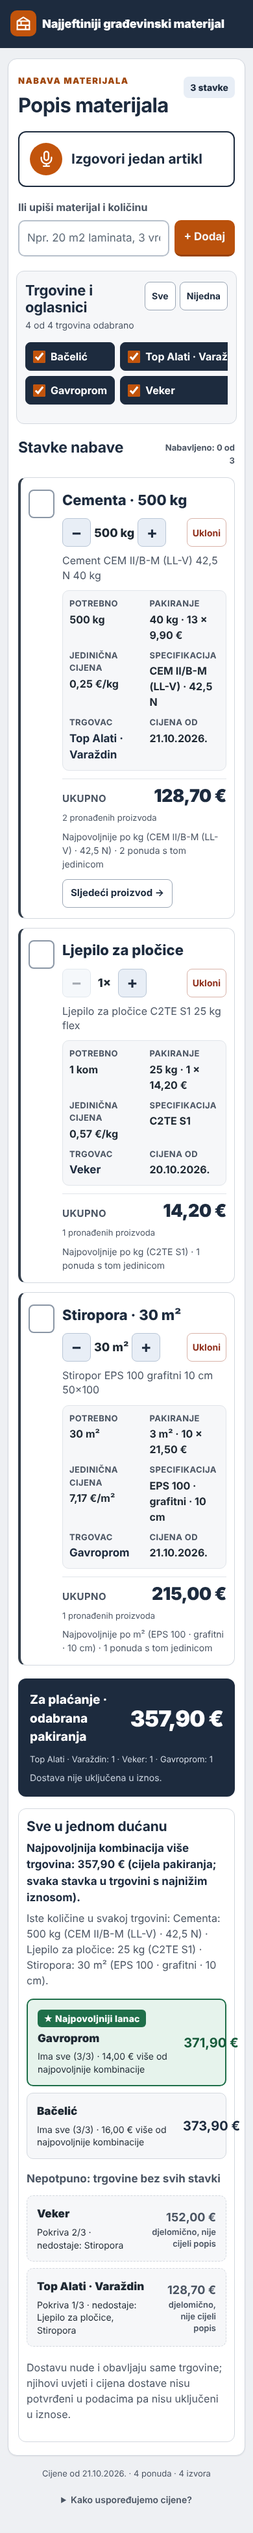
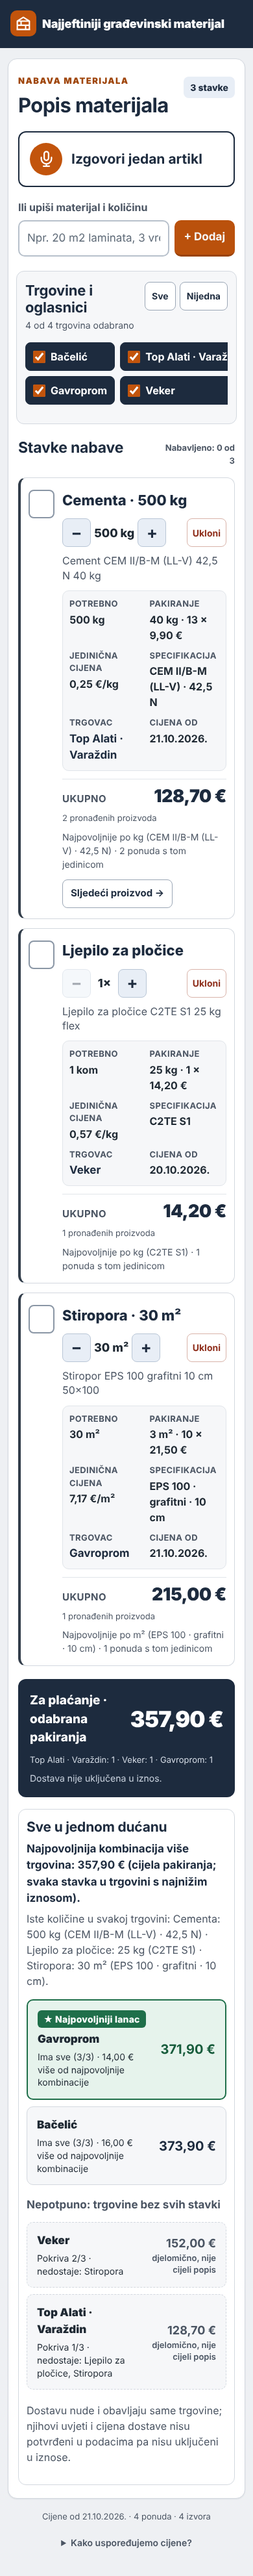
320 px: store totals keep their width so the text beside them wraps instead of clipping the amount
Claude-Session: https://claude.ai/code/session_012YQEjpXDyr7hVqmNyC8SPz

diff --git a/site/stil.css b/site/stil.css
@@ -90,3 +90,5 @@ input::placeholder{color:#5f6b78}
 .trgovina-red .iznos small{font-size:13px;font-weight:600;color:var(--muted);text-align:right}
 @media(max-width:700px){.jedna-trgovina{padding:14px 12px}}
 .trgovina-red:not(.nepotpun) .iznos{white-space:nowrap;max-width:none;min-width:0}
+.trgovina-red .lijevo{flex:1 1 auto;min-width:0}.trgovina-red .iznos{flex:0 0 auto}
+@media(max-width:360px){.trgovina-red:not(.nepotpun) .iznos{font-size:18px}}
